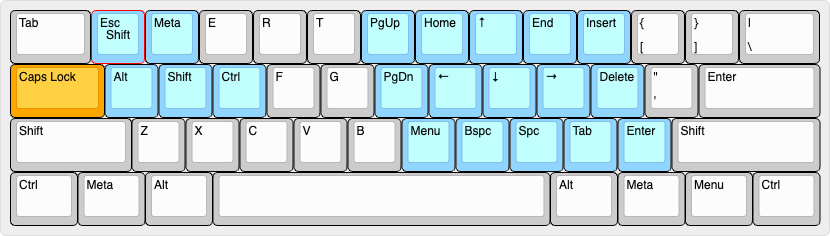
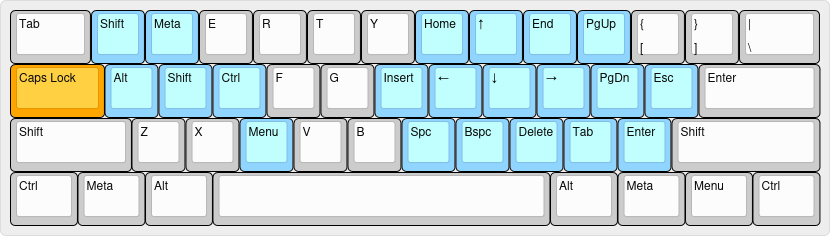
Keyd: re-arrange extend layer.

diff --git a/README.md b/README.md
@@ -31,7 +31,7 @@ The default layer of this layout makes use of _Home Row Modifiers_ (see [pattern
 
 It is also an entry point to the following layers.
   
-#### [Extend](https://www.keyboard-layout-editor.com/##@_name=Extend;&@_w:1.5;&=Tab&_c=#90D5FF;&=Esc%0A%0A%0A%0A%0A%0A%0A%0A%0AShift&=Meta&_c=#cccccc;&=E&=R&=T&_c=#90D5FF;&=PgUp&=Home&=%E2%86%91&=End&=Insert&_c=#cccccc;&=%7B%0A%5B&=%7D%0A%5D&_w:1.5;&=%7C%0A%5C;&@_c=#FFA500&w:1.75;&=Caps%20Lock&_c=#90D5FF;&=Alt&=Shift&=Ctrl&_c=#cccccc;&=F&=G&_c=#90D5FF;&=PgDn&=%E2%86%90&=%E2%86%93&=%E2%86%92&=Delete&_c=#cccccc;&=%22%0A'&_w:2.25;&=Enter;&@_w:2.25;&=Shift&=Z&=X&=C&=V&=B&_c=#90D5FF;&=Menu&=Bspc&=Spc&=Tab&=Enter&_c=#cccccc&w:2.75;&=Shift;&@_w:1.25;&=Ctrl&_w:1.25;&=Meta&_w:1.25;&=Alt&_a:7&w:6.25;&=&_a:4&w:1.25;&=Alt&_w:1.25;&=Meta&_w:1.25;&=Menu&_w:1.25;&=Ctrl)
+#### [Extend](https://www.keyboard-layout-editor.com/##@_name=extend;&@_w:1.5;&=Tab&_c=#90D5FF;&=Shift&=Meta&_c=#cccccc;&=E&=R&=T&_c=#CCCCCC;&=Y&_c=#90D5FF;&=Home&=%E2%86%91&=End&=PgUp&_c=#cccccc;&=%7B%0A%5B&=%7D%0A%5D&_w:1.5;&=%7C%0A%5C;&@_c=#FFA500&w:1.75;&=Caps%20Lock&_c=#90D5FF;&=Alt&=Shift&=Ctrl&_c=#cccccc;&=F&=G&_c=#90D5FF;&=Insert&=%E2%86%90&=%E2%86%93&=%E2%86%92&=PgDn&=Esc&_c=#cccccc&w:2.25;&=Enter;&@_w:2.25;&=Shift&=Z&=X&_c=#90D5FF;&=Menu&_c=#cccccc;&=V&=B&_c=#90D5FF;&=Spc&=Bspc&=Delete&=Tab&=Enter&_c=#cccccc&w:2.75;&=Shift;&@_w:1.25;&=Ctrl&_w:1.25;&=Meta&_w:1.25;&=Alt&_a:7&w:6.25;&=&_a:4&w:1.25;&=Alt&_w:1.25;&=Meta&_w:1.25;&=Menu&_w:1.25;&=Ctrl)
   
 ![Extend layer image](images/extend.png)
 
